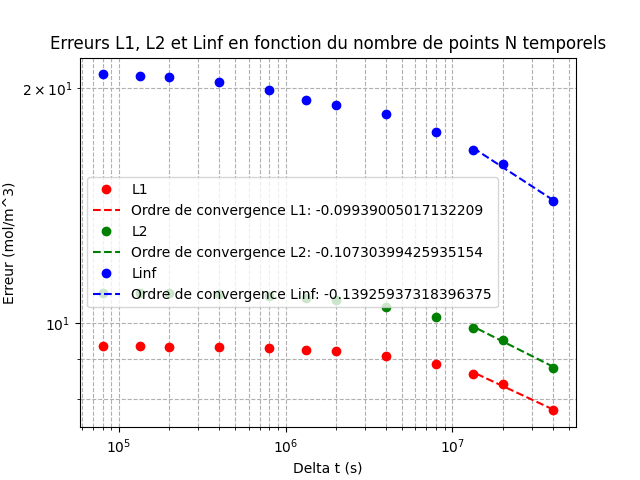
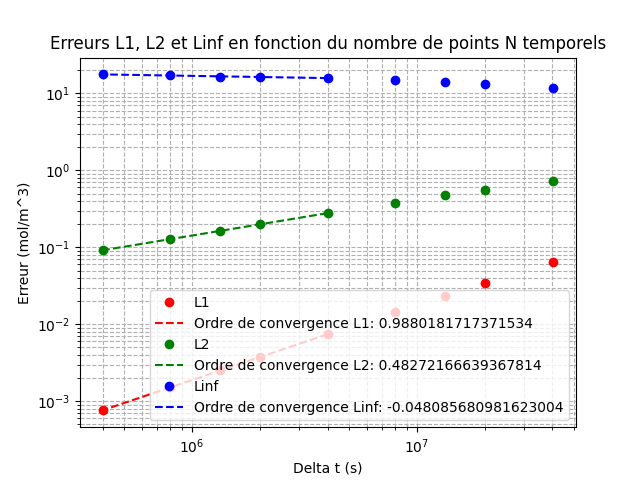
Correctif convergences

diff --git a/Devoir 2/src/main.py b/Devoir 2/src/main.py
@@ -78,7 +78,7 @@ plt.show()
 ##############################################################################
 # Analyse de convergence spatiale avec delta temporel fixé à 3,1536e7 s (1 an)
 ##############################################################################
-list_N_spatiaux=[3, 4, 5, 10, 20, 30, 50, 100, 200, 300, 500, 1000]
+list_N_spatiaux=[ 4, 5, 6, 7, 8, 9, 10, 20, 30, 50, 100, 200, 300]
 
 delta_t = 365*24*3600      # 1 an en s
 N_temporel = (Tf/delta_t)+1
@@ -94,38 +94,39 @@ for i in (range(len(list_N_spatiaux))):
     N_spatial = list_N_spatiaux[i]
     
     C_i_n, r_i, t_i=functions.Concentrations(delta_r, delta_t)
-    C_spatiaux = C_i_n[-1,:]
-    C_temporels = C_i_n[:,0]
-    C_exact_spatial = C_chapeau(r_i, Tf)
-    C_exacte_temporel = C_chapeau(0, t_i)
+    #C_spatiaux = C_i_n[-1,:]
+    #C_exacte = C_chapeau(r_i, Tf)
+    C_numerique = C_i_n[:,2]
+    C_exacte = C_chapeau(r_i[2], t_i)
+
     vectDelta_r[i]=delta_r
 
-    L1=errors.ErreurL1(C_spatiaux,C_temporels,C_exact_spatial,C_exacte_temporel,N_spatial,N_temporel)
+    L1=errors.ErreurL1(C_numerique,C_exacte,N_spatial,N_temporel)
     vectL1[i]=L1
-    L2=errors.ErreurL2(C_spatiaux,C_temporels,C_exact_spatial,C_exacte_temporel,N_spatial,N_temporel)
+    L2=errors.ErreurL2(C_numerique,C_exacte,N_spatial,N_temporel)
     vectL2[i]=L2
-    Linf=errors.ErreurLinf(C_spatiaux,C_temporels,C_exact_spatial,C_exacte_temporel)
+    Linf=errors.ErreurLinf(C_numerique,C_exacte)
     vectLinf[i]=Linf
 
 plt.figure()
 
 # L1
 plt.plot(vectDelta_r, vectL1, 'o', color='red', label='L1')
-slope_L1, intercept_L1, r_value_L1, p_value_L1, std_err_L1 = linregress(np.log(vectDelta_r[6:]), np.log(vectL1[6:]))
-y_pred_L1 =  np.exp(intercept_L1) * vectDelta_r[6:]**slope_L1
-plt.plot(vectDelta_r[6:], y_pred_L1, '--', color='red', label=f'Ordre de convergence L1: {slope_L1}')
+slope_L1, intercept_L1, r_value_L1, p_value_L1, std_err_L1 = linregress(np.log(vectDelta_r[:6]), np.log(vectL1[:6]))
+y_pred_L1 =  np.exp(intercept_L1) * vectDelta_r[:6]**slope_L1
+plt.plot(vectDelta_r[:6], y_pred_L1, '--', color='red', label=f'Ordre de convergence L1: {slope_L1}')
 
 # L2
 plt.plot(vectDelta_r, vectL2, 'o', color='green', label='L2')
-slope_L2, intercept_L2, r_value_L2, p_value_L2, std_err_L2 = linregress(np.log(vectDelta_r[6:]), np.log(vectL2[6:]))
-y_pred_L2 = np.exp(intercept_L2) * vectDelta_r[6:]**slope_L2
-plt.plot(vectDelta_r[6:], y_pred_L2, '--', color='green', label=f'Ordre de convergence L2: {slope_L2}')
+slope_L2, intercept_L2, r_value_L2, p_value_L2, std_err_L2 = linregress(np.log(vectDelta_r[:6]), np.log(vectL2[:6]))
+y_pred_L2 = np.exp(intercept_L2) * vectDelta_r[:6]**slope_L2
+plt.plot(vectDelta_r[:6], y_pred_L2, '--', color='green', label=f'Ordre de convergence L2: {slope_L2}')
 
 # Linf
 plt.plot(vectDelta_r, vectLinf, 'o', color='blue', label='Linf')
-slope_L3, intercept_L3, r_value_L3, p_value_L3, std_err_L3 = linregress(np.log(vectDelta_r[6:]), np.log(vectLinf[6:]))
-y_pred_Linf = np.exp(intercept_L3) * vectDelta_r[6:]**slope_L3
-plt.plot(vectDelta_r[6:], y_pred_Linf, '--', color='blue', label=f'Ordre de convergence Linf: {slope_L3}')
+slope_L3, intercept_L3, r_value_L3, p_value_L3, std_err_L3 = linregress(np.log(vectDelta_r[:6]), np.log(vectLinf[:6]))
+y_pred_Linf = np.exp(intercept_L3) * vectDelta_r[:6]**slope_L3
+plt.plot(vectDelta_r[:6], y_pred_Linf, '--', color='blue', label=f'Ordre de convergence Linf: {slope_L3}')
 
 plt.title('Erreurs L1, L2 et Linf en fonction du nombre de points N spatiaux')
 plt.legend()
@@ -138,10 +139,10 @@ plt.savefig('Devoir 2/results/erreurs_spatiales.png')
 plt.show()
 
 
-##############################################################################
+###############################################################################
 # Analyse de convergence temporelle avec delta spatial fixé à 0,125 m (5 points)
-##############################################################################
-list_N_temporel=[100, 200, 300, 500, 1000, 2000, 3000, 5000, 10000, 20000, 30000, 50000]
+###############################################################################
+list_N_temporel=[100, 200, 300, 500, 1000, 2000, 3000, 5000, 10000]
 
 delta_r = R/(20-1)      # en m
 N_spatial = 20
@@ -156,38 +157,39 @@ for i in (range(len(list_N_temporel))):
     N_temporel = list_N_temporel[i]
     
     C_i_n, r_i, t_i=functions.Concentrations(delta_r, delta_t)
-    C_spatiaux = C_i_n[-1,:]
-    C_temporels = C_i_n[:,0]
-    C_exact_spatial = C_chapeau(r_i, Tf)
-    C_exacte_temporel = C_chapeau(0, t_i)
+    #C_temporels = C_i_n[:,4]
+    #C_exacte = C_chapeau(r_i[4], t_i)
+    C_numerique = C_i_n[-1,:]
+    C_exacte = C_chapeau(r_i, Tf)
+
     vectDelta_t[i]=delta_t
 
-    L1=errors.ErreurL1(C_spatiaux,C_temporels,C_exact_spatial,C_exacte_temporel,N_spatial,N_temporel)
+    L1=errors.ErreurL1(C_numerique,C_exacte,N_spatial,N_temporel)
     vectL1[i]=L1
-    L2=errors.ErreurL2(C_spatiaux,C_temporels,C_exact_spatial,C_exacte_temporel,N_spatial,N_temporel)
+    L2=errors.ErreurL2(C_numerique,C_exacte,N_spatial,N_temporel)
     vectL2[i]=L2
-    Linf=errors.ErreurLinf(C_spatiaux,C_temporels,C_exact_spatial,C_exacte_temporel)
+    Linf=errors.ErreurLinf(C_numerique,C_exacte)
     vectLinf[i]=Linf
 
 plt.figure()
 
 # L1
 plt.plot(vectDelta_t, vectL1, 'o', color='red', label='L1')
-slope_L1, intercept_L1, r_value_L1, p_value_L1, std_err_L1 = linregress(np.log(vectDelta_t[:3]), np.log(vectL1[:3]))
-y_pred_L1 =  np.exp(intercept_L1) * vectDelta_t[:3]**slope_L1
-plt.plot(vectDelta_t[:3], y_pred_L1, '--', color='red', label=f'Ordre de convergence L1: {slope_L1}')
+slope_L1, intercept_L1, r_value_L1, p_value_L1, std_err_L1 = linregress(np.log(vectDelta_t[4:]), np.log(vectL1[4:]))
+y_pred_L1 =  np.exp(intercept_L1) * vectDelta_t[4:]**slope_L1
+plt.plot(vectDelta_t[4:], y_pred_L1, '--', color='red', label=f'Ordre de convergence L1: {slope_L1}')
 
 # L2
 plt.plot(vectDelta_t, vectL2, 'o', color='green', label='L2')
-slope_L2, intercept_L2, r_value_L2, p_value_L2, std_err_L2 = linregress(np.log(vectDelta_t[:3]), np.log(vectL2[:3]))
-y_pred_L2 = np.exp(intercept_L2) * vectDelta_t[:3]**slope_L2
-plt.plot(vectDelta_t[:3], y_pred_L2, '--', color='green', label=f'Ordre de convergence L2: {slope_L2}')
+slope_L2, intercept_L2, r_value_L2, p_value_L2, std_err_L2 = linregress(np.log(vectDelta_t[4:]), np.log(vectL2[4:]))
+y_pred_L2 = np.exp(intercept_L2) * vectDelta_t[4:]**slope_L2
+plt.plot(vectDelta_t[4:], y_pred_L2, '--', color='green', label=f'Ordre de convergence L2: {slope_L2}')
 
 # Linf
 plt.plot(vectDelta_t, vectLinf, 'o', color='blue', label='Linf')
-slope_L3, intercept_L3, r_value_L3, p_value_L3, std_err_L3 = linregress(np.log(vectDelta_t[:3]), np.log(vectLinf[:3]))
-y_pred_Linf = np.exp(intercept_L3) * vectDelta_t[:3]**slope_L3
-plt.plot(vectDelta_t[:3], y_pred_Linf, '--', color='blue', label=f'Ordre de convergence Linf: {slope_L3}')
+slope_L3, intercept_L3, r_value_L3, p_value_L3, std_err_L3 = linregress(np.log(vectDelta_t[4:]), np.log(vectLinf[4:]))
+y_pred_Linf = np.exp(intercept_L3) * vectDelta_t[4:]**slope_L3
+plt.plot(vectDelta_t[4:], y_pred_Linf, '--', color='blue', label=f'Ordre de convergence Linf: {slope_L3}')
 
 plt.title('Erreurs L1, L2 et Linf en fonction du nombre de points N temporels')
 plt.legend()

diff --git a/Devoir 2/src/errors.py b/Devoir 2/src/errors.py
@@ -12,25 +12,25 @@ import numpy as np
 ###################
 #Erreur L1 discrète
 ###################
-def ErreurL1(C_spatiaux,C_temporels,C_exact_spatial,C_exacte_temporel,N_spatial,N_temporel):
+def ErreurL1(C_numerique,C_exacte,N_spatial,N_temporel):
     """Fonction de calcul de l'erreur L1 discrète"""
-    normeL1 = 1/N_spatial*np.sum(np.abs(C_spatiaux-C_exact_spatial))+1/N_temporel*np.sum(np.abs(C_temporels-C_exacte_temporel))
+    normeL1 = 1/N_spatial*1/N_temporel*np.sum(np.abs(C_numerique-C_exacte))
     return normeL1
 
 
 ###################
 #Erreur L2 discrète
 ###################
-def ErreurL2(C_spatiaux,C_temporels,C_exact_spatial,C_exacte_temporel,N_spatial,N_temporel):
+def ErreurL2(C_numerique,C_exacte,N_spatial,N_temporel):
     """Fonction de calcul de l'erreur L2 discrète"""
-    normeL2 = np.sqrt(1/N_spatial*np.sum(np.abs(C_spatiaux-C_exact_spatial)**2))+np.sqrt(1/N_temporel*np.sum(np.abs(C_temporels-C_exacte_temporel)**2))
+    normeL2 = np.sqrt(1/N_spatial*1/N_temporel*np.sum(np.abs(C_numerique-C_exacte)**2))
     return normeL2
 
 
 #####################
 #Erreur Linf discrète
 #####################
-def ErreurLinf(C_spatiaux,C_temporels,C_exact_spatial,C_exacte_temporel):
+def ErreurLinf(C_numerique,C_exacte,):
     """Fonction de calcul de l'erreur Linf discrète"""
-    normeLinf = np.max(np.abs(C_spatiaux-C_exact_spatial))+np.max(np.abs(C_temporels-C_exacte_temporel))
+    normeLinf = np.max(np.abs(C_numerique-C_exacte))
     return normeLinf
